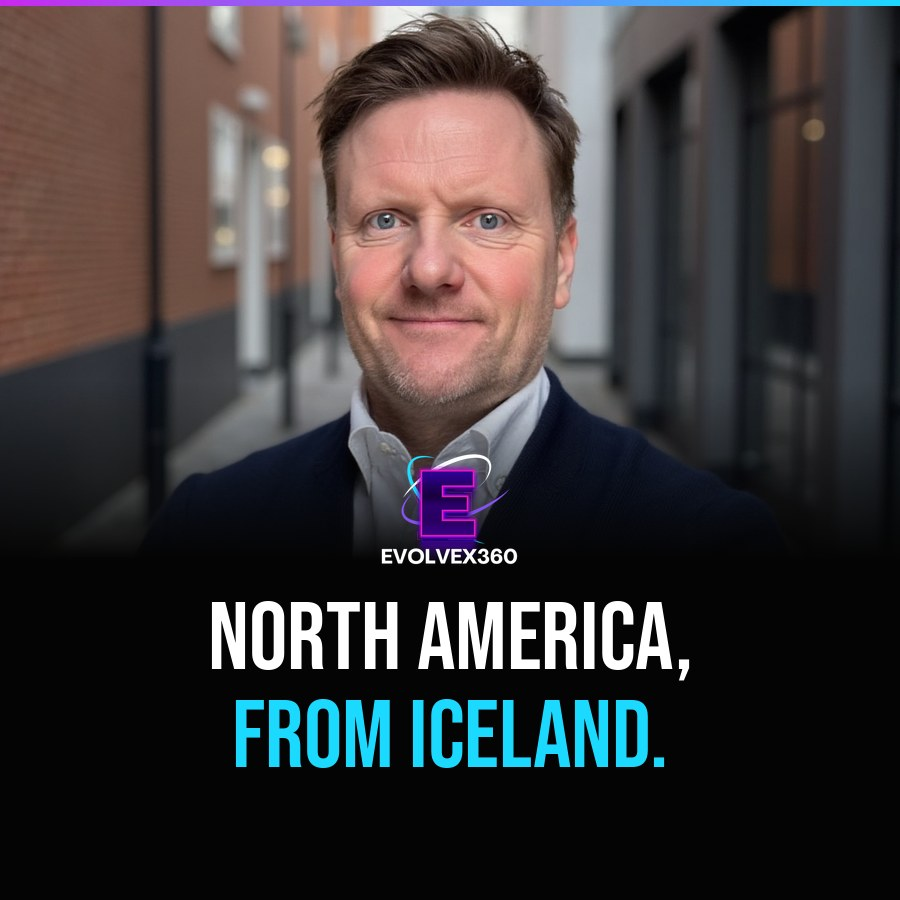
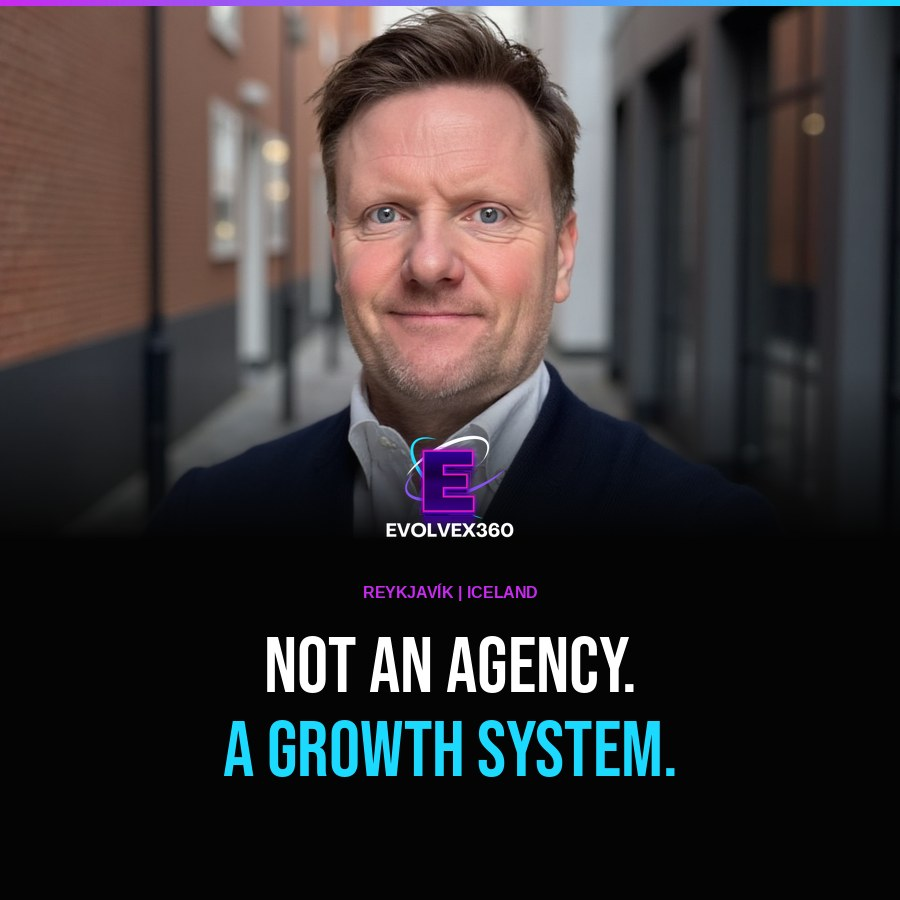
Use official EvolveX360 Reykjavík roll-up copy
Replace the old NA-market / CEO lines with the quoted roll-up headlines. Gilsi is Head of Growth on the banners. Flóra and Norðurflug are unchanged.

diff --git a/js/ads.js b/js/ads.js
@@ -12,10 +12,10 @@
     box: "Reykjavik Summit"
   };
   var EVX_COPY = {
-    takeover: "Icelandic businesses. We open the North American market.",
-    wide: "Icelandic businesses. We open the North American market.",
-    half: "Gilsi · CEO, EvolveX360 Iceland.",
-    box: "North America, from Iceland."
+    takeover: "ICELAND → NORTH AMERICA · Your next customer lives in New York. Or Toronto.",
+    wide: "YOUR NEXT CUSTOMER LIVES IN NEW YORK. OR TORONTO.",
+    half: "YOUR ICELAND GROWTH PARTNER",
+    box: "NOT AN AGENCY. A GROWTH SYSTEM."
   };
   var HELI_IMG = {
     takeover: "img/heli-hero.jpg",
@@ -199,7 +199,7 @@
       logo: EVX_IMG.logo,
       brand: "EvolveX360 Iceland",
       bg: EVX_IMG.takeover,
-      marks: markPair("Icelandic businesses.", "We open the North American market.")
+      marks: markPair("ICELAND → NORTH AMERICA", "Your next customer lives in New York. Or Toronto.")
     };
   }
 
